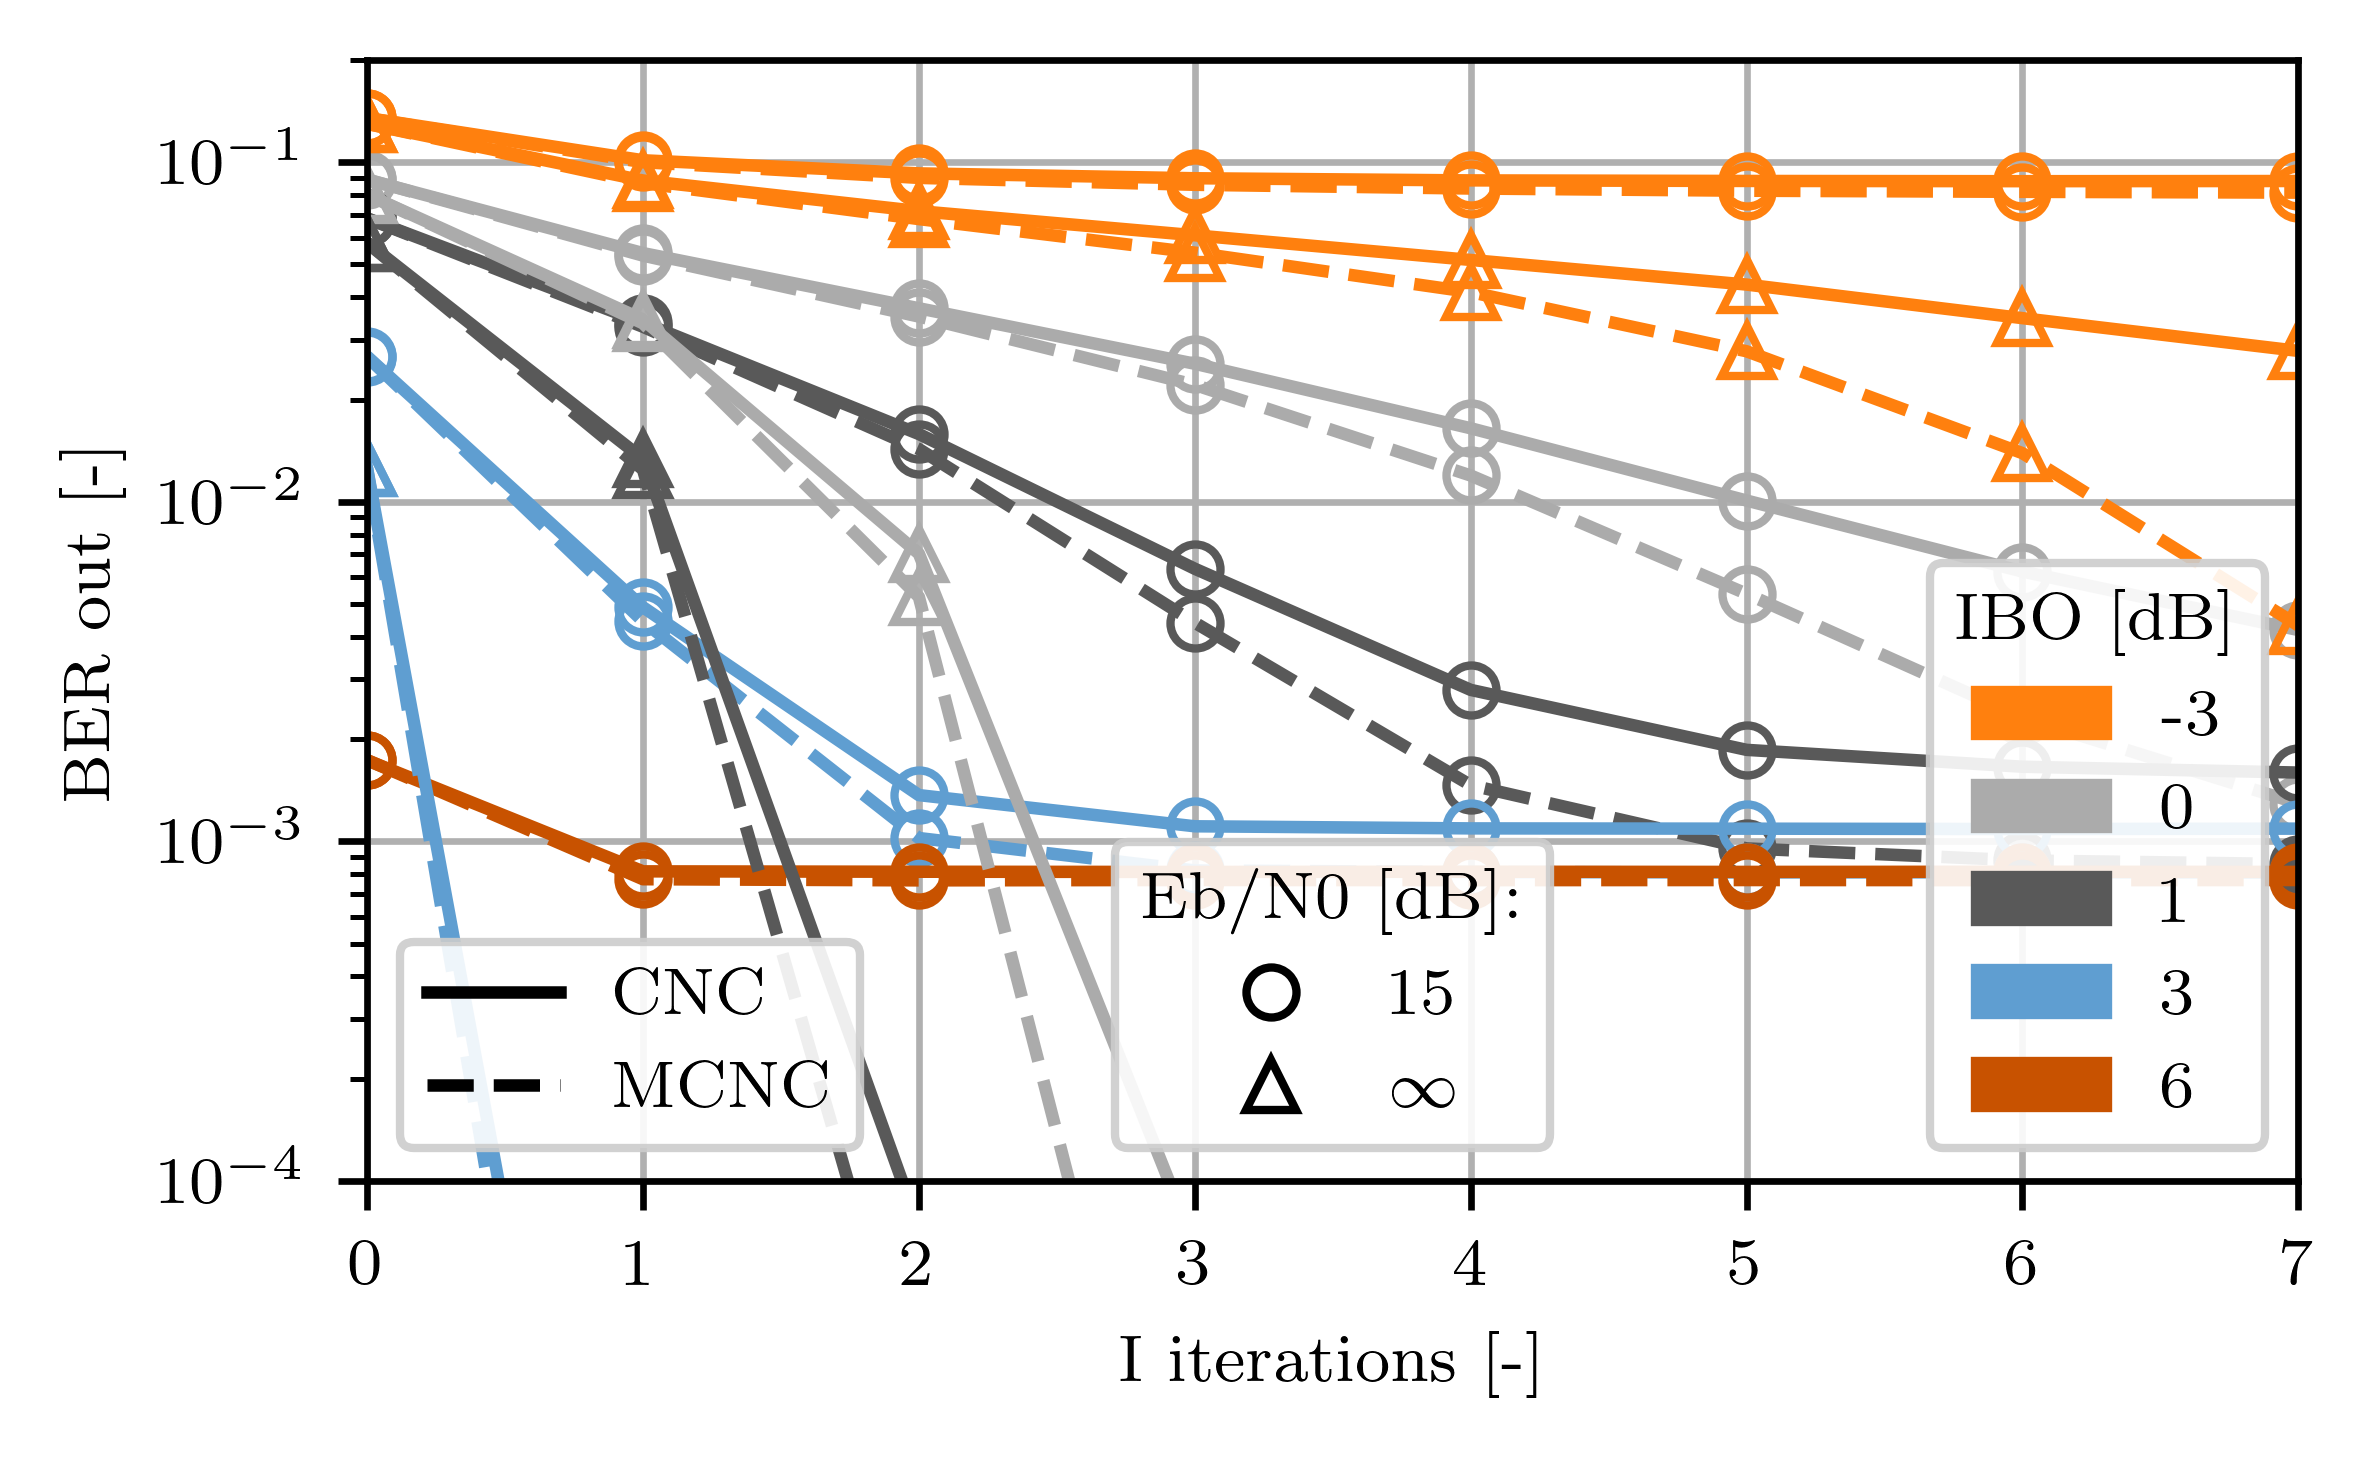
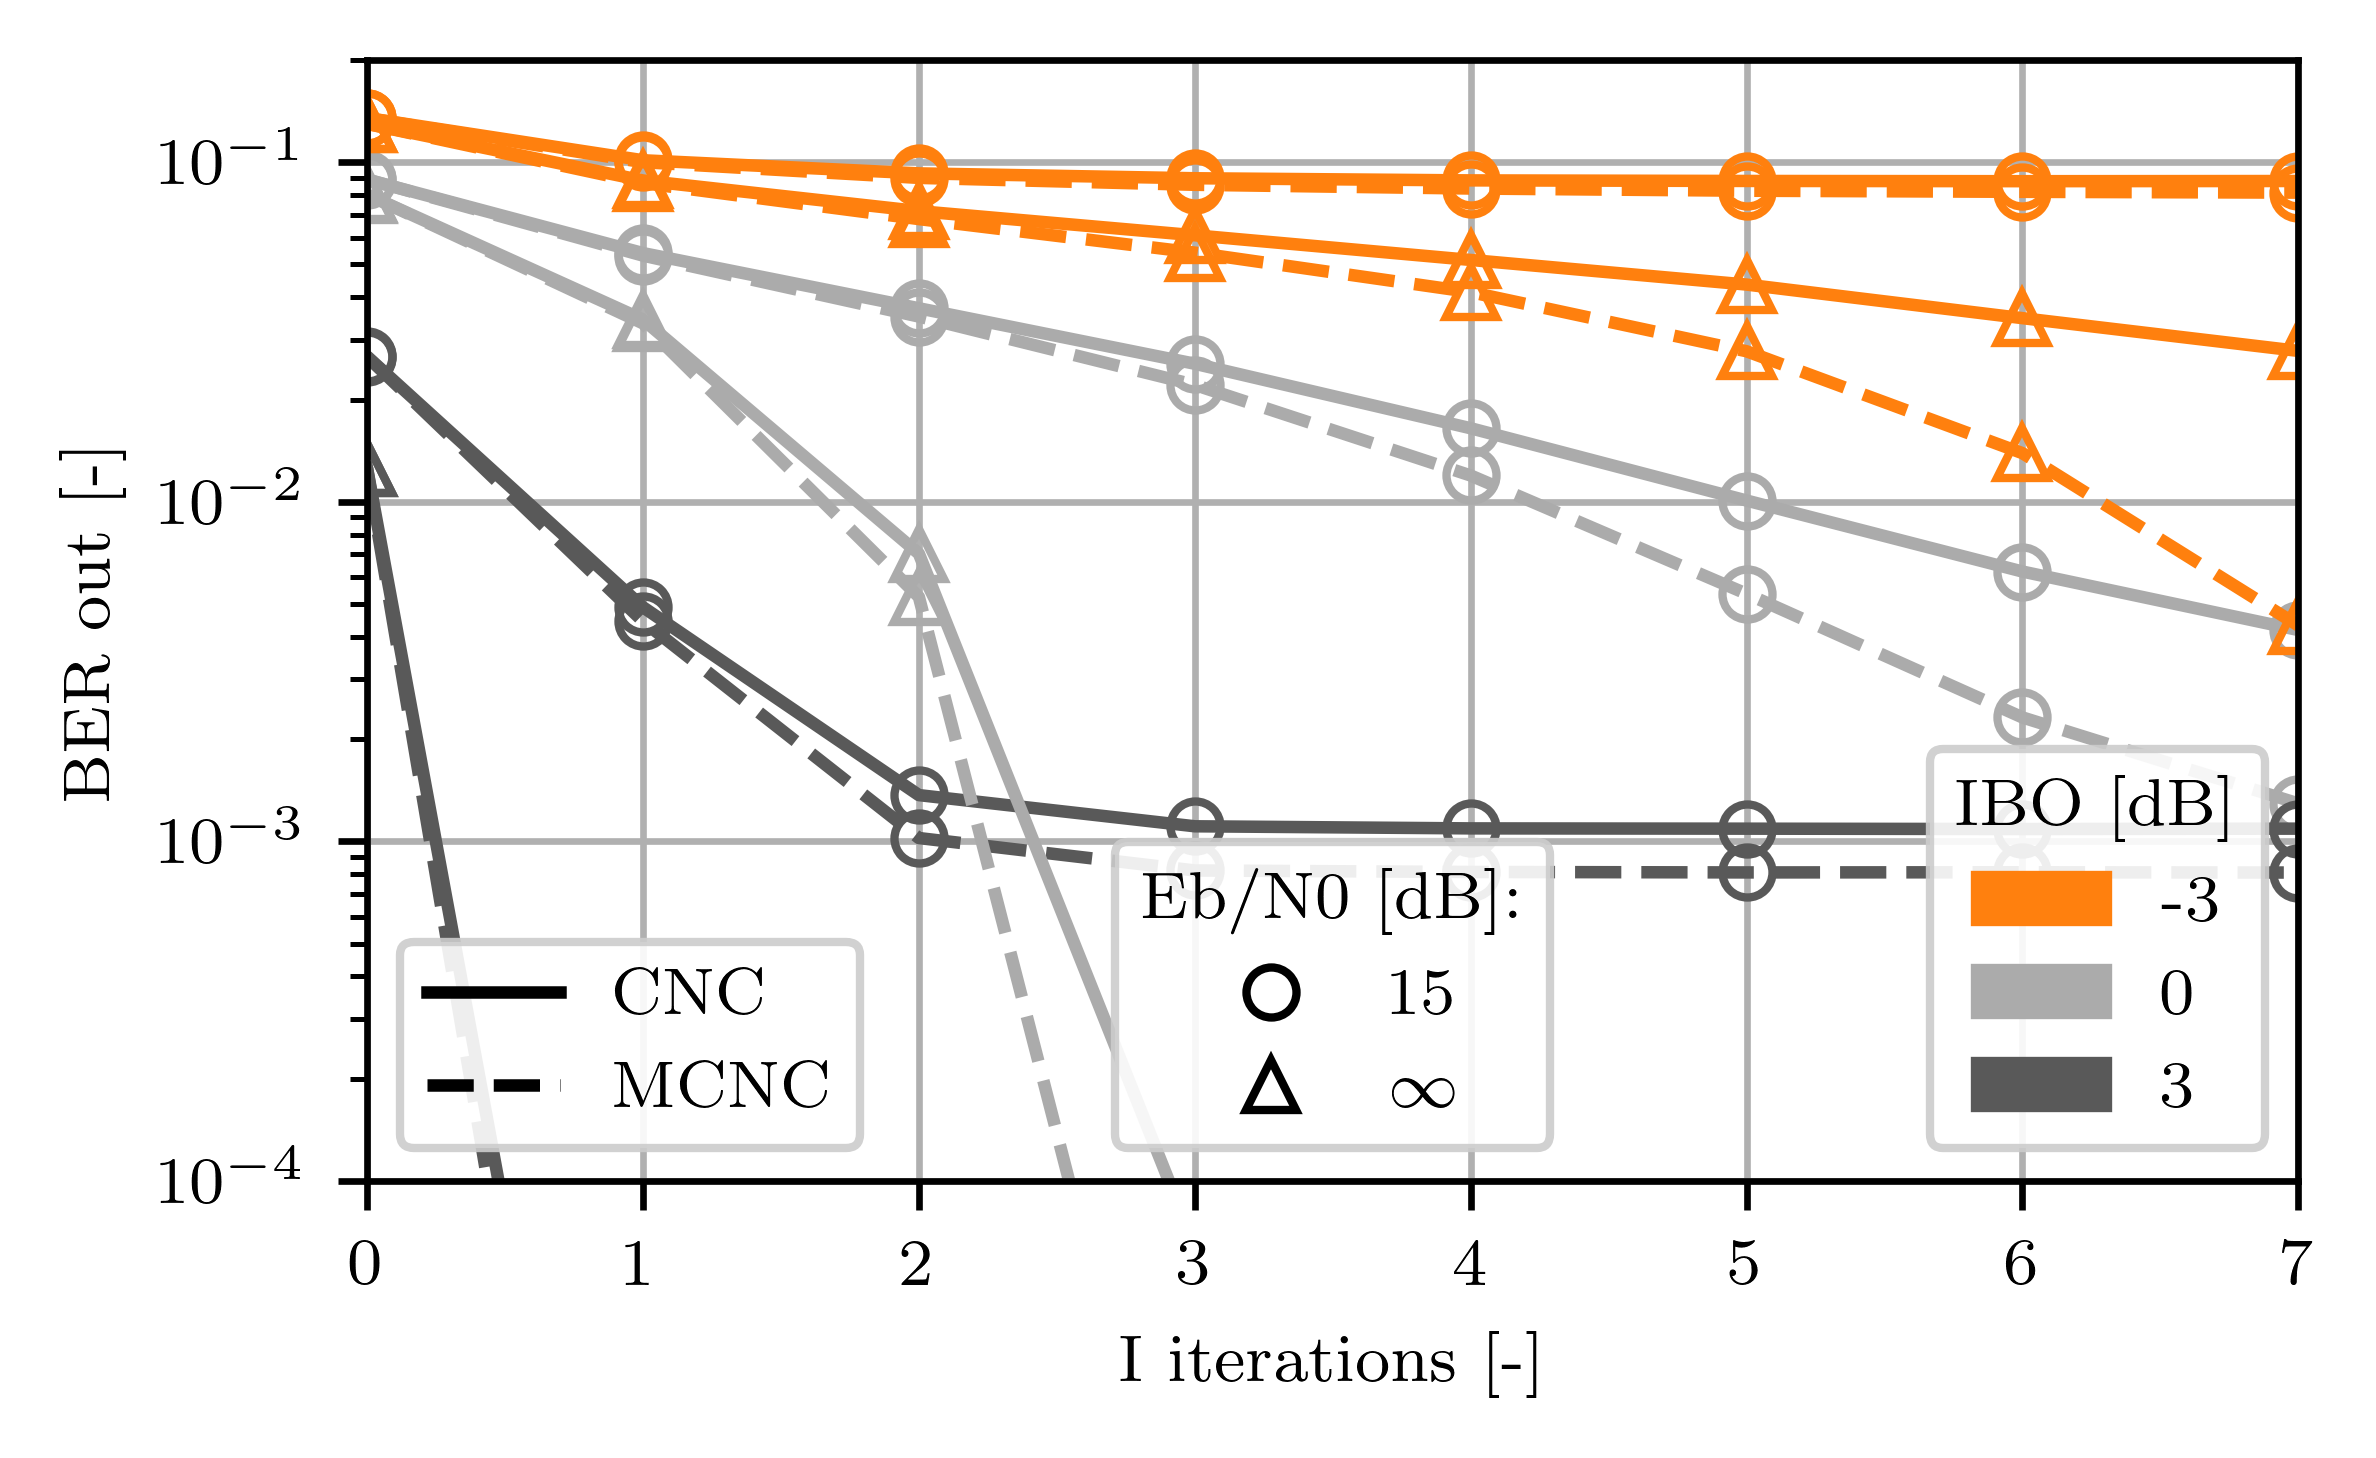
minor update concerning ber vs ite scripts

diff --git a/main_mp_clipping_noise_cancellation/main_mp_miso_mcnc_ber_vs_ibo.py b/main_mp_clipping_noise_cancellation/main_mp_miso_mcnc_ber_vs_ibo.py
@@ -32,7 +32,7 @@ if __name__ == '__main__':
     num_cores = mp.cpu_count()
 
     n_ant_arr = [64]
-    ebn0_db_arr = [12, 15, 18, 1000]
+    ebn0_db_arr = [15, 1000]
     ibo_step_arr = [0.5]
     cnc_n_iter_lst = [1, 2, 3, 4, 5, 6, 7, 8]
     # standard RX
@@ -48,7 +48,7 @@ if __name__ == '__main__':
 
     # BER accuracy settings
     bits_sent_max = int(1e7)
-    n_err_min = int(1e5)
+    n_err_min = int(1e6)
 
     rx_loc_x, rx_loc_y = 212.0, 212.0
     rx_loc_var = 10.0
@@ -96,13 +96,13 @@ if __name__ == '__main__':
                                         bits_sent_max=bits_sent_max, is_mcnc=True)
 
             for ibo_step_val in ibo_step_arr:
-                ibo_arr = np.arange(-9, 9.1, ibo_step_val)
+                ibo_arr = [-3, -1, 0, 1, 3]# np.arange(-9, 9.1, ibo_step_val)
 
                 for ebn0_db in ebn0_db_arr:
                     start_time = time.time()
                     print("--- Start time: %s ---" % datetime.now().strftime('%Y-%m-%d %H:%M:%S'))
                     snr_db_val = ebn0_to_snr(ebn0_db, my_mod.n_sub_carr, my_mod.n_sub_carr, my_mod.constel_size)
-                    bers_per_ibo = np.zeros((len(cnc_n_iter_lst), len(ibo_arr)))
+                    bers_per_ibo = np.zeros((len(cnc_n_iter_lst) + 1, len(ibo_arr)))
                     mp_link_obj.set_snr(snr_db_val=snr_db_val)
 
                     # BER vs IBO eval
@@ -156,7 +156,7 @@ if __name__ == '__main__':
                         '_'.join([str(val) for val in cnc_n_iter_lst[1:]]))
                     # timestamp = datetime.now().strftime("%Y-%m-%d-%H-%M-%S")
                     # filename_str += "_" + timestamp
-                    plt.savefig("figs/vm_worker_results/%s.png" % filename_str, dpi=600, bbox_inches='tight')
+                    plt.savefig("../figs/vm_worker_results/%s.png" % filename_str, dpi=600, bbox_inches='tight')
                     # plt.show()
                     plt.cla()
                     plt.close()

diff --git a/main_mp_clipping_noise_cancellation/main_mp_miso_cnc_ber_vs_ibo.py b/main_mp_clipping_noise_cancellation/main_mp_miso_cnc_ber_vs_ibo.py
@@ -29,7 +29,7 @@ import ctypes
 if __name__ == '__main__':
 
     set_latex_plot_style()
-    num_cores = mp.cpu_count()
+    num_cores = 10
 
     # %%
     n_ant_arr = [64]
@@ -49,7 +49,7 @@ if __name__ == '__main__':
 
     # BER accuracy settings
     bits_sent_max = int(1e7)
-    n_err_min = int(1e5)
+    n_err_min = int(1e6)
 
     rx_loc_x, rx_loc_y = 212.0, 212.0
     rx_loc_var = 10.0
@@ -96,13 +96,13 @@ if __name__ == '__main__':
                                         bits_sent_max=bits_sent_max, is_mcnc=False)
 
             for ibo_step_val in ibo_step_arr:
-                ibo_arr = np.arange(-9, 9.1, ibo_step_val)
+                ibo_arr = [-3, -1, 0, 1, 3] # np.arange(-9, 9.1, ibo_step_val)
 
                 for ebn0_db in ebn0_db_arr:
                     start_time = time.time()
                     print("--- Start time: %s ---" % datetime.now().strftime('%Y-%m-%d %H:%M:%S'))
                     snr_db_val = ebn0_to_snr(ebn0_db, my_mod.n_sub_carr, my_mod.n_sub_carr, my_mod.constel_size)
-                    bers_per_ibo = np.zeros((len(cnc_n_iter_lst), len(ibo_arr)))
+                    bers_per_ibo = np.zeros((len(cnc_n_iter_lst) + 1, len(ibo_arr)))
                     mp_link_obj.set_snr(snr_db_val=snr_db_val)
 
                     # BER vs IBO eval
@@ -156,7 +156,7 @@ if __name__ == '__main__':
                         '_'.join([str(val) for val in cnc_n_iter_lst[1:]]))
                     # timestamp = datetime.now().strftime("%Y-%m-%d-%H-%M-%S")
                     # filename_str += "_" + timestamp
-                    plt.savefig("figs/vm_worker_results/%s.png" % filename_str, dpi=600, bbox_inches='tight')
+                    plt.savefig("../figs/vm_worker_results/%s.png" % filename_str, dpi=600, bbox_inches='tight')
                     # plt.show()
                     plt.cla()
                     plt.close()

diff --git a/final_plots/ber_ite.py b/final_plots/ber_ite.py
@@ -34,7 +34,7 @@ snr_lst = [12, 15, 18, 1000]
 sel_snr_val_lst = [15, 1000]
 
 ibo_val_lst = np.arange(ibo_min, ibo_max + 0.1, ibo_step)
-ibo_sel_lst = [-3, 0, 1, 3, 6]
+ibo_sel_lst = [-3, 0, 3]
 
 for snr_idx, snr_val in enumerate(snr_lst):
     cnc_filename_str = "ber_vs_ibo_cnc_los_nant64_ebn0_%d_ibo_min%d_max%d_step%1.2f_niter1_2_3_4_5_6_7_8" % (
